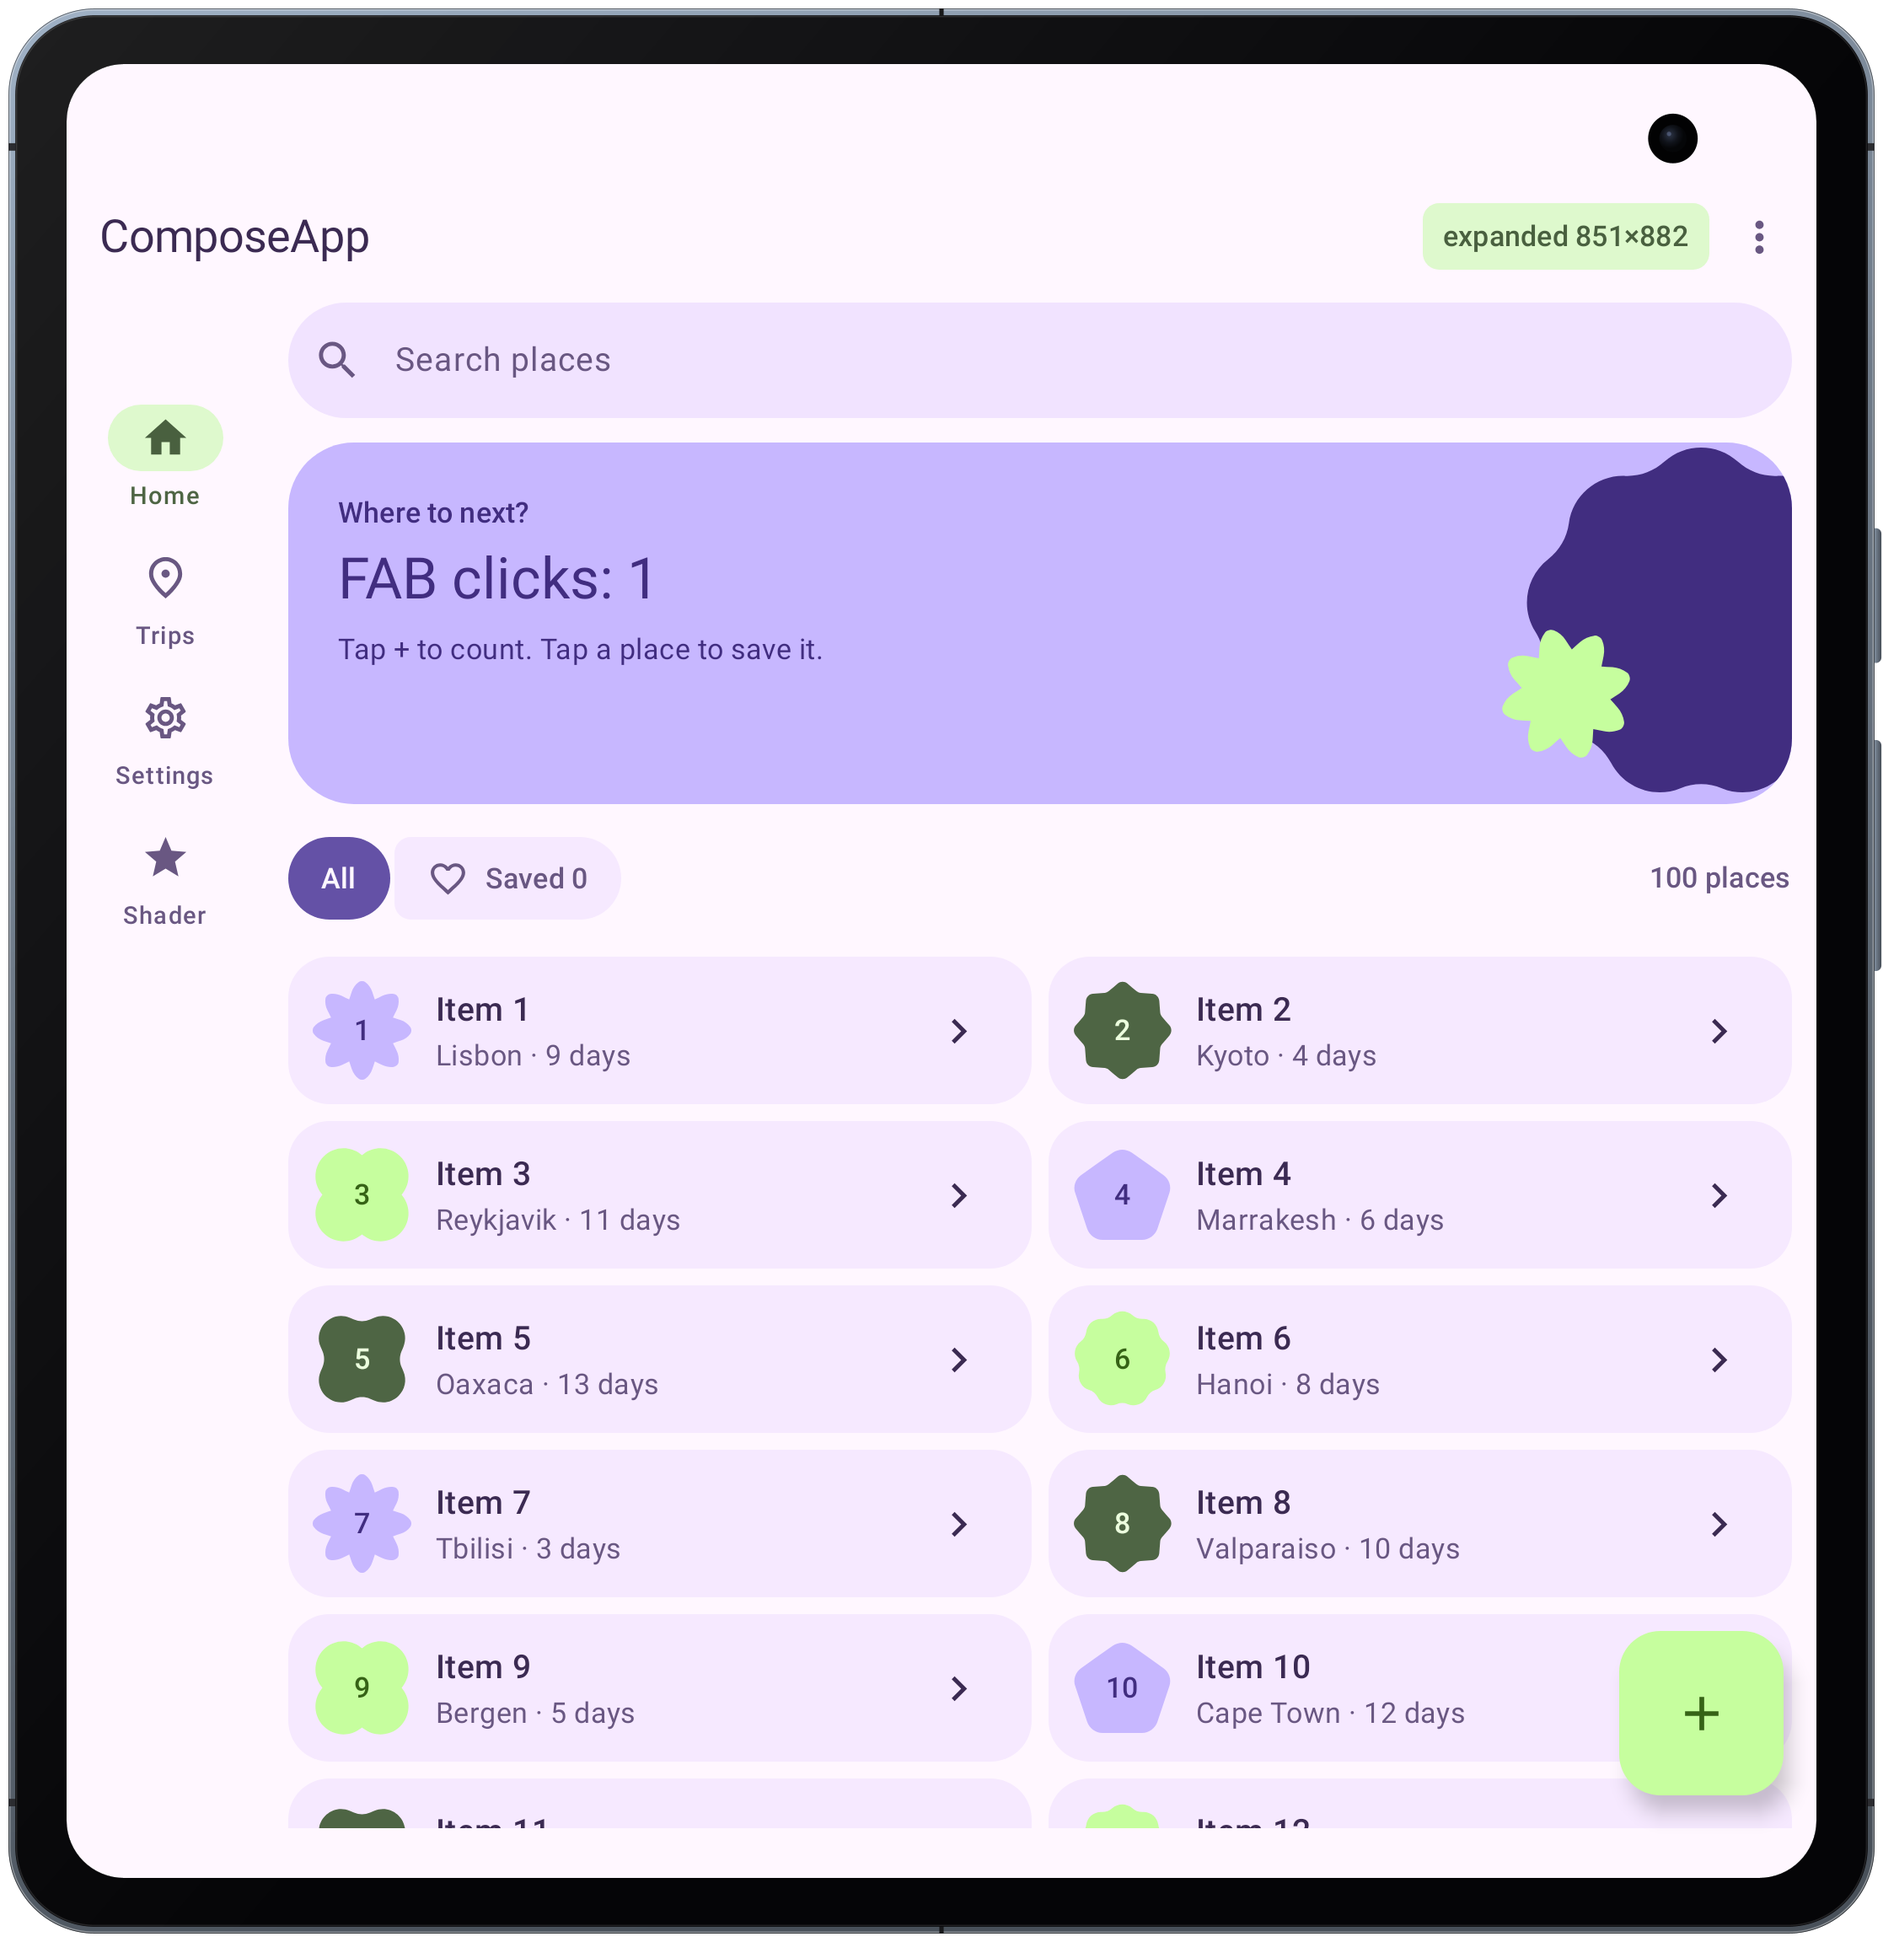
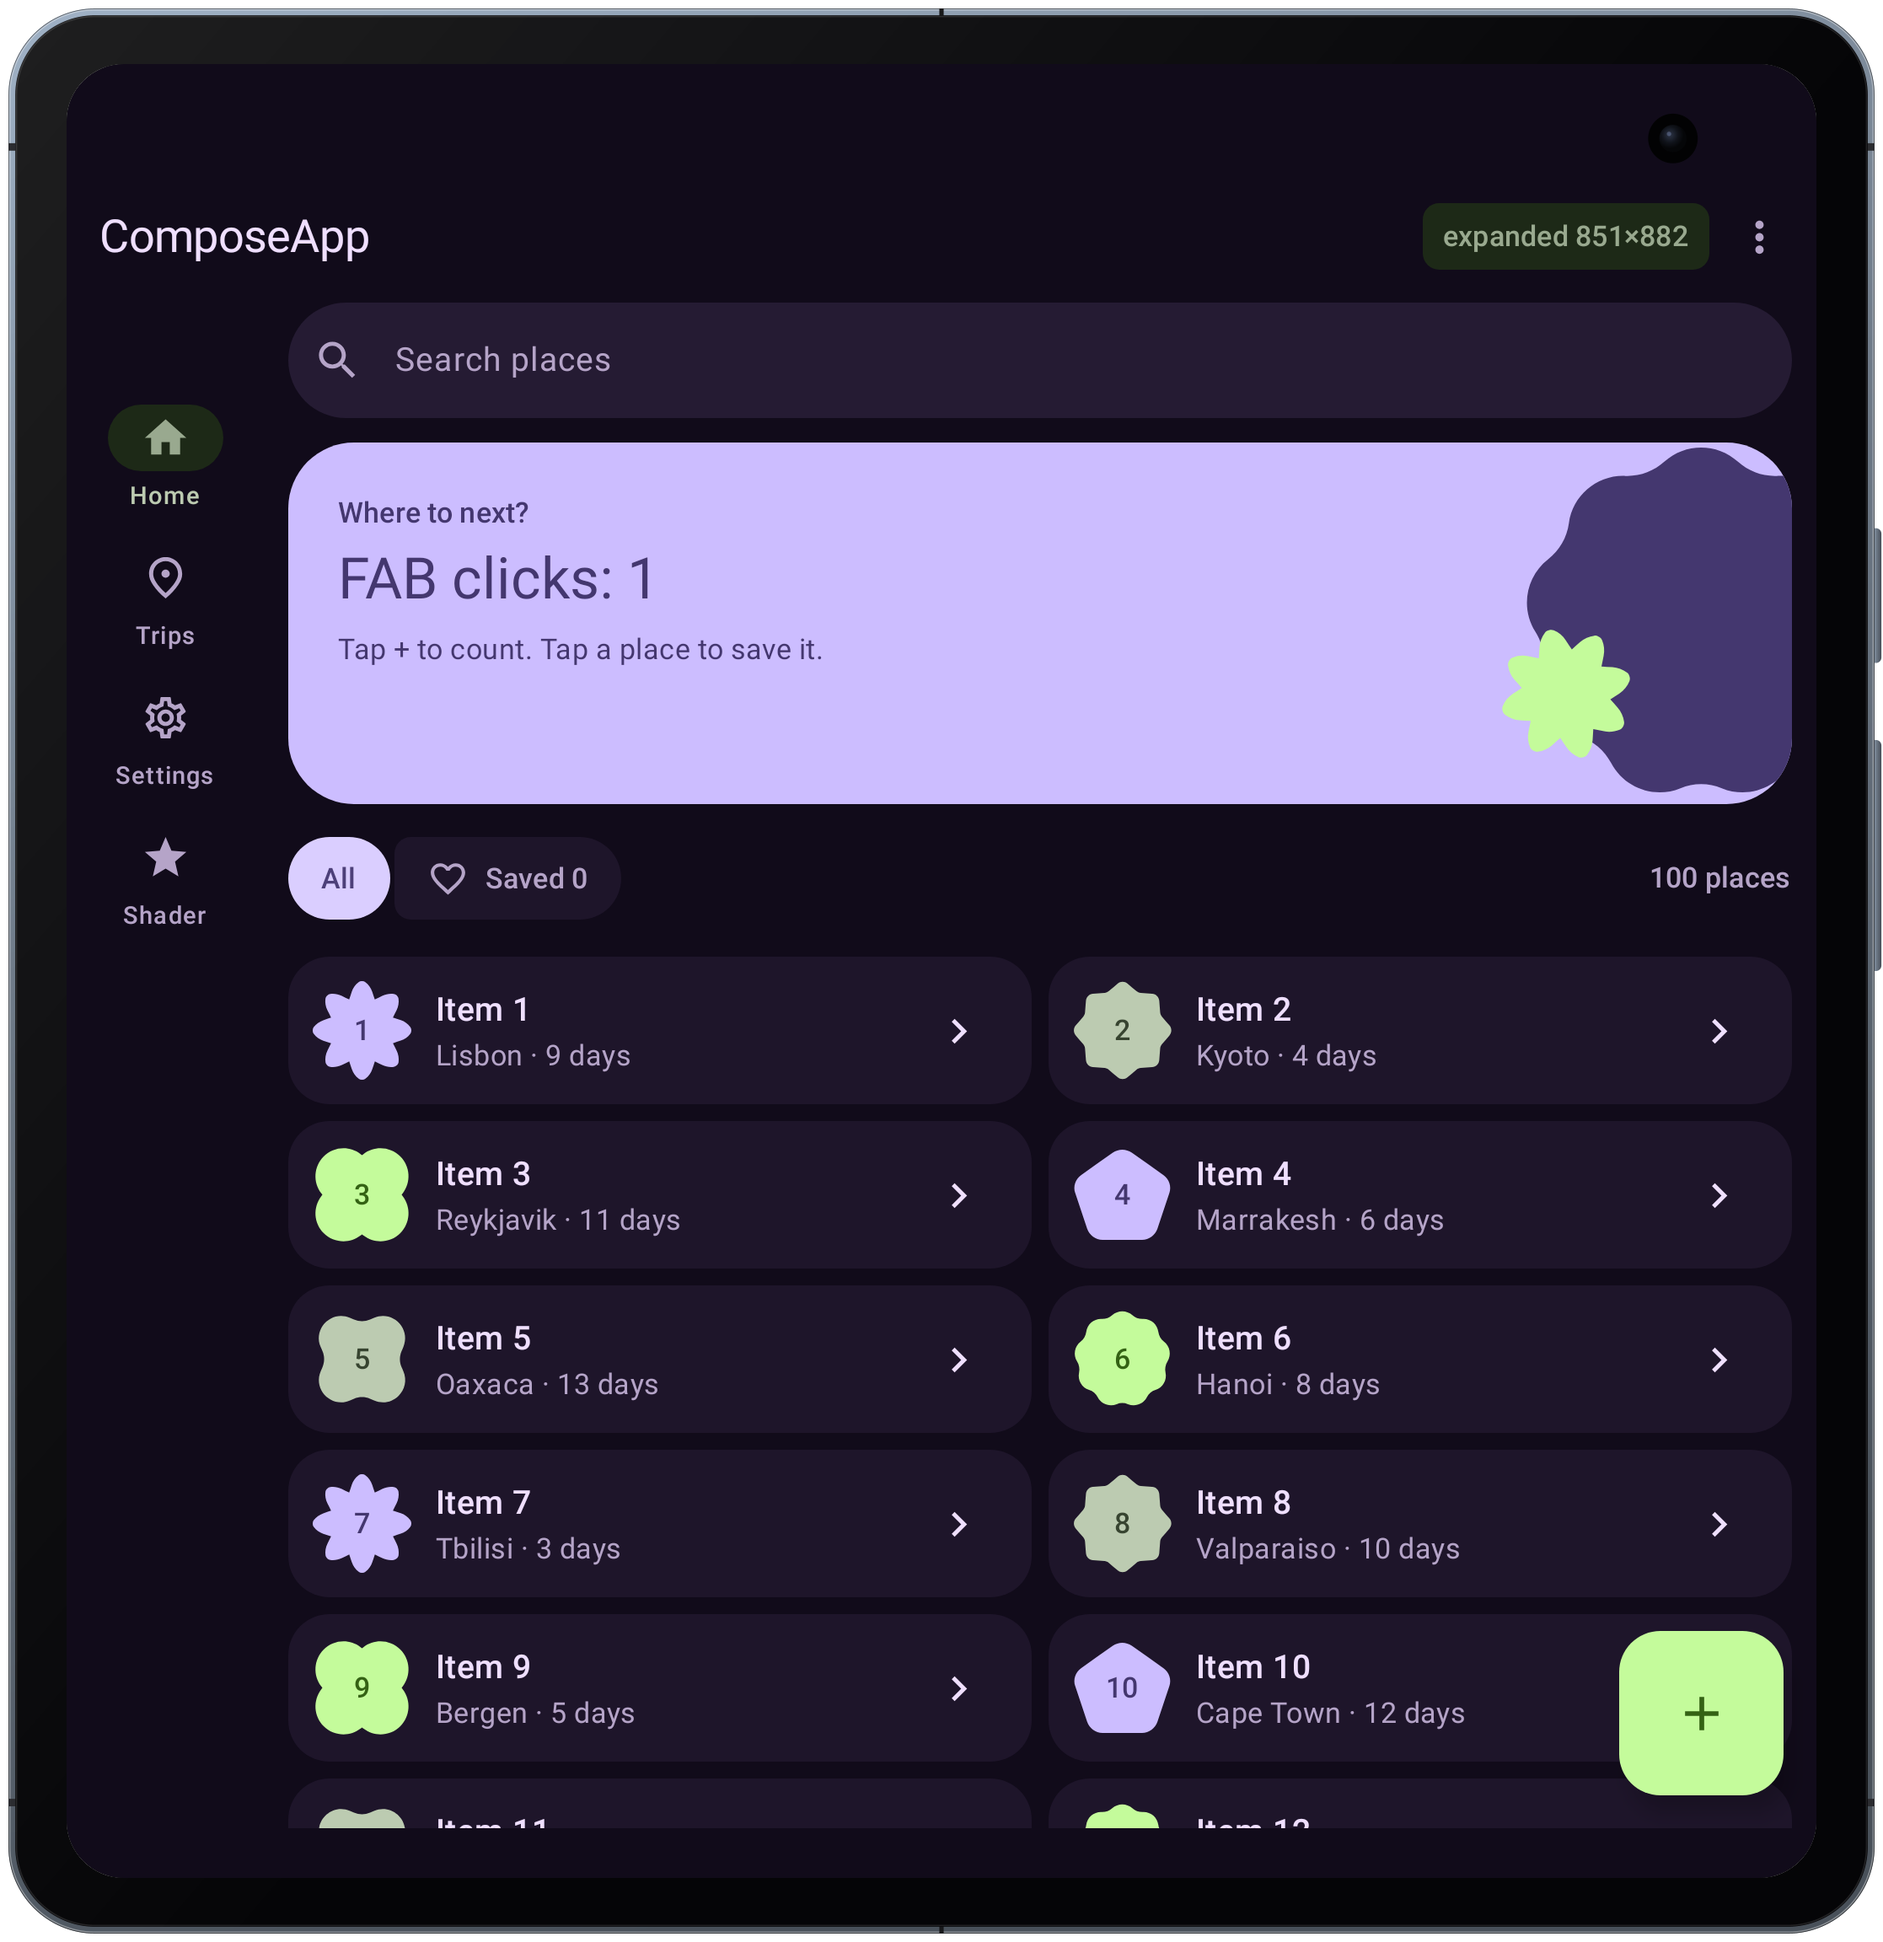
Docs: show the test app in dark appearance
Every screenshot of the app on the site (the landing page's two and the simulator window page's) is taken with
--appearance dark, as Greenroom shows its bundled copy.

diff --git a/AGENTS.md b/AGENTS.md
@@ -874,8 +874,9 @@ Read README.md for results and limits; this file covers how to work on the code.
   website/requirements.txt`; nothing else of apksim needs it).
   In a table, a code span's `\|` becomes `|` with a break allowed after it. `website/assets/site.css` holds the
   site's colours (light and a blue-grey dark), type and table styling; `app-light.png`/`app-dark.png` there are the
-  test app's `shot` output (Home, and Trips with `appearance dark`), shown on the landing page: retake them when the
-  test app's look changes.
+  test app's `shot` output (Home and Trips, both with `--appearance dark`: the app is shown dark in the docs, as
+  Greenroom opens its bundled copy), shown on the landing page; the simulator window page's `win-*.png` are dark too:
+  retake them when the test app's look changes.
   The workflow builds on pull requests that touch a source, and deploys every version on a push to `main` that
   touches one and whenever a release is published (which is what moves `/latest/`). Its `build` job is not a required
   check (ci.yml skips its jobs for these paths), so look at it before merging a docs change.

diff --git a/website/pages/index.md b/website/pages/index.md
@@ -26,7 +26,7 @@ apksim app-debug.apk
 </div>
 <div class="device-wrap" markdown>
 <figure class="device" markdown>
-![The apksim test app's home screen in Material 3 Expressive: a search field, a counter card, a list of places and a navigation bar with Home, Trips, Settings and Shader](site-assets/app-light.png){ .only-light }
+![The apksim test app's home screen in Material 3 Expressive, dark appearance: a search field, a counter card, a list of places and a navigation bar with Home, Trips, Settings and Shader](site-assets/app-light.png){ .only-light }
 ![The apksim test app's Trips screen in dark mode: three trip cards and a note field](site-assets/app-dark.png){ .only-dark }
 </figure>
 <p class="hero-note">Captured directly by apksim, headless.</p>

diff --git a/website/pages/simulator-window.md b/website/pages/simulator-window.md
@@ -174,7 +174,7 @@ Zooming scales the window on your Mac's display without changing the Android dev
 </div>
 <div class="menu-preview" markdown>
 <figure class="menu-preview-frame menu-preview-frame--screen" markdown>
-![ComposeApp with Show Layout Bounds enabled showing red and blue bounds overlays](site-assets/win-layout-bounds.png)
+![ComposeApp in dark appearance with Show Layout Bounds enabled showing red and blue bounds overlays](site-assets/win-layout-bounds.png)
 </figure>
 <div class="menu-preview-meta" markdown>
 **Show Layout Bounds** draws Android's layout and clip bounds over Views and Compose nodes. Pair with **Slow Animations** (`⌘T`) to inspect transitions frame by frame.
